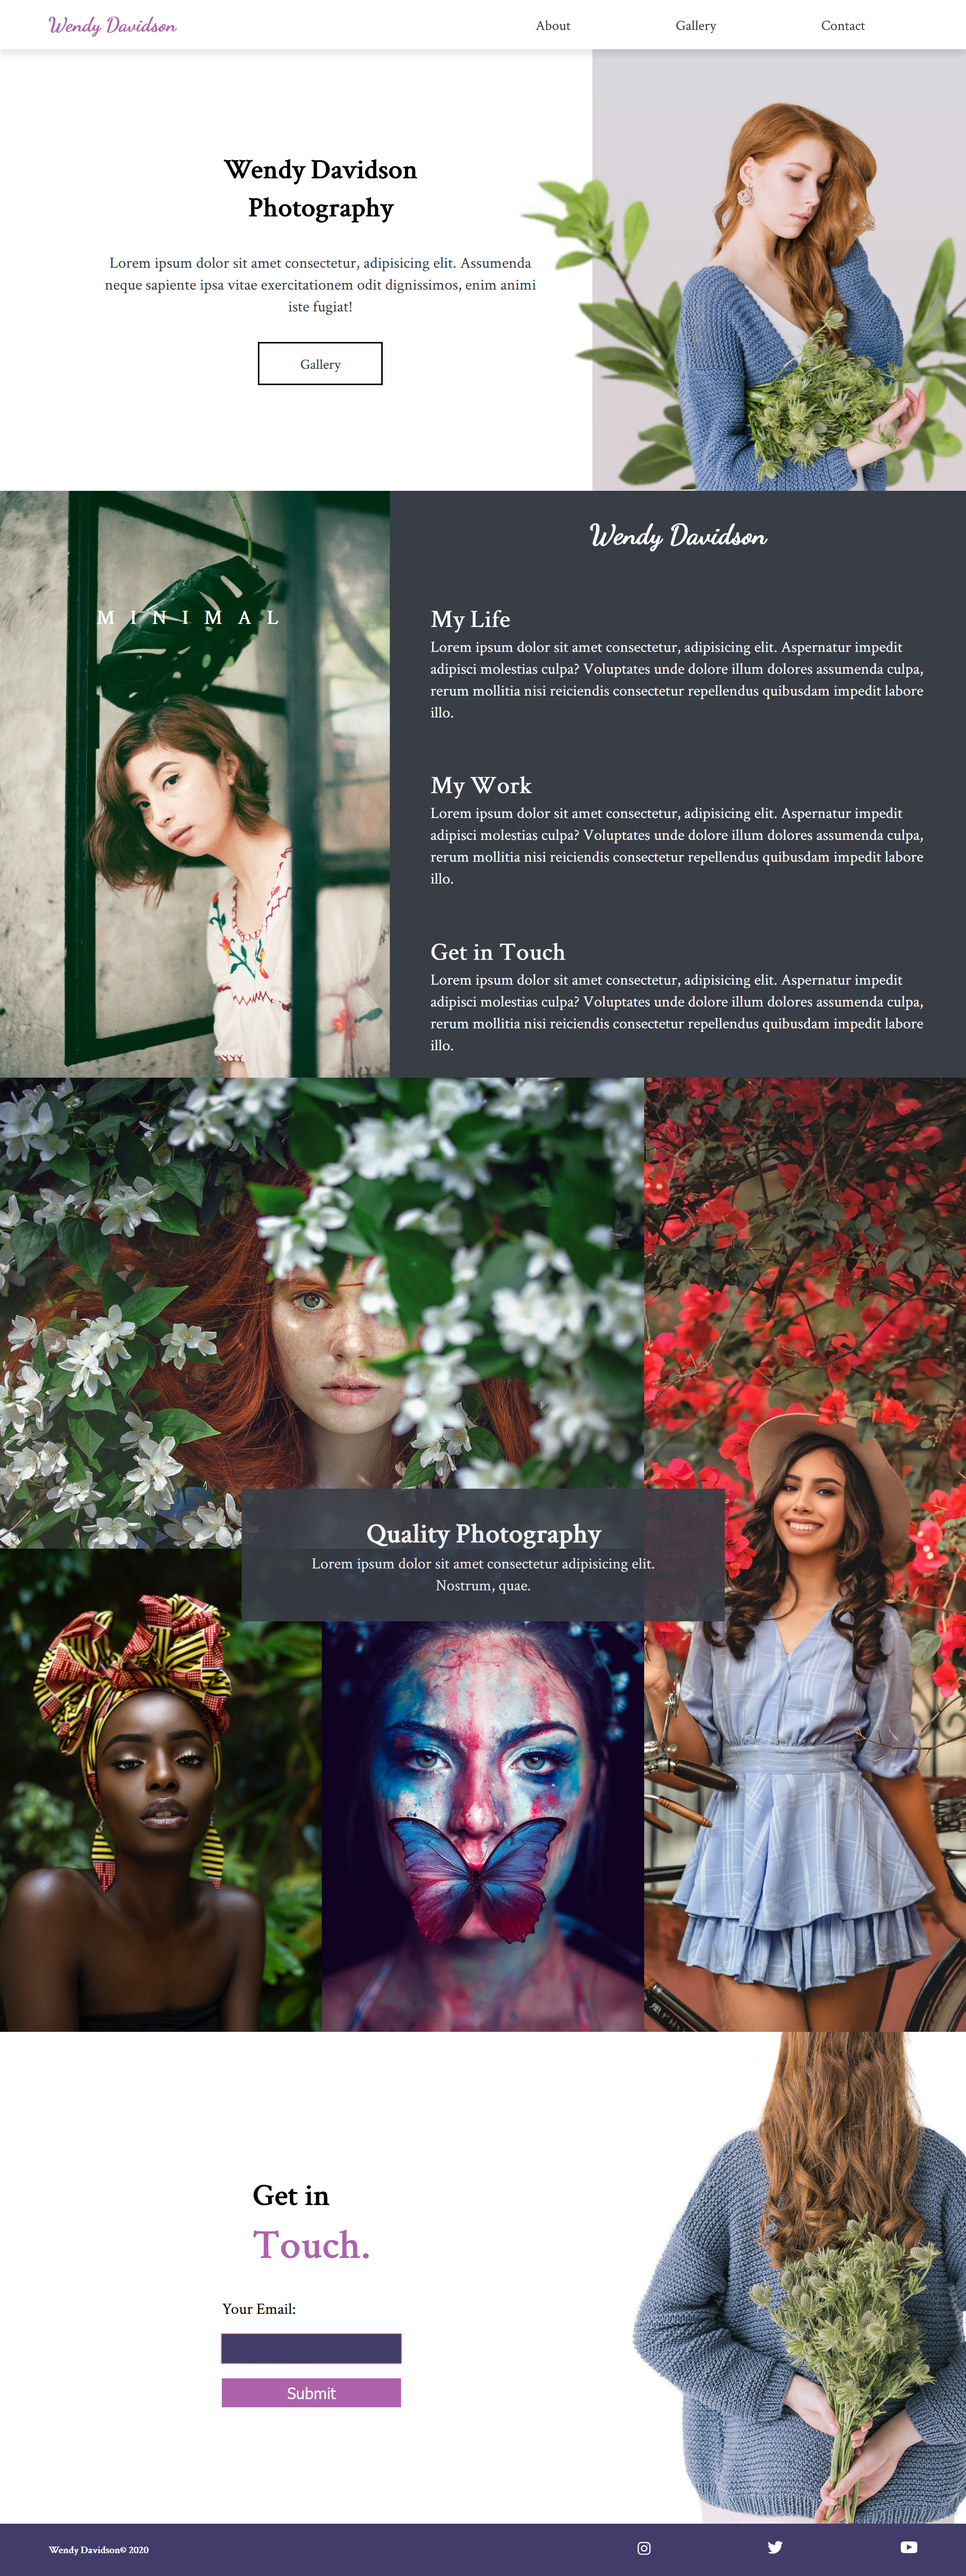
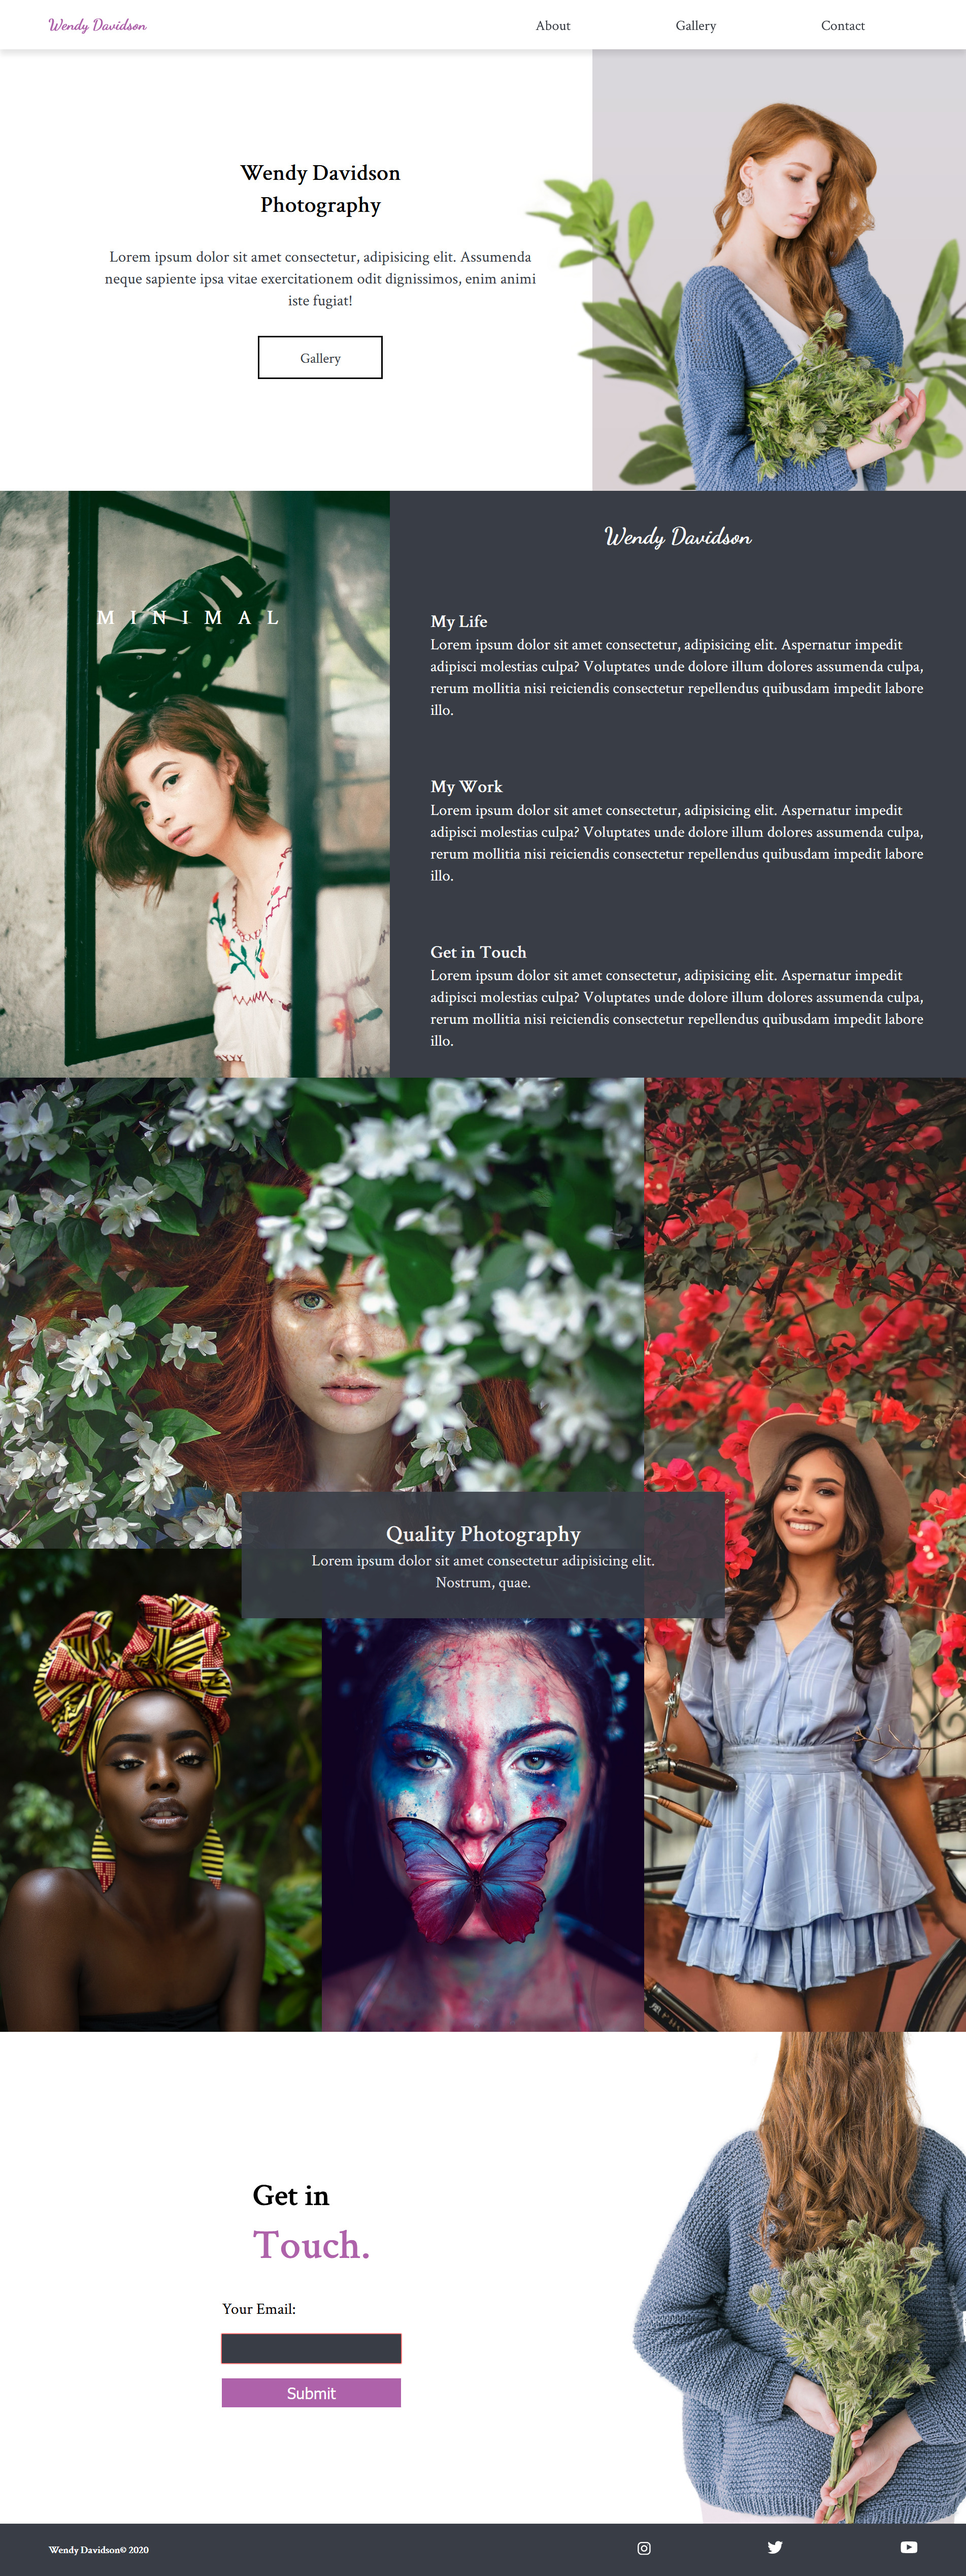
changed website full photo

diff --git a/main.css b/main.css
@@ -292,7 +292,7 @@ nav {
 .form-wrapper input {
     display: block;
     margin: 3rem 0rem;
-    background: var(--background-color);
+    background: var(--gray-text);
     color: white;
     border: none;
     padding: 1rem;
@@ -312,7 +312,7 @@ nav {
 
 /*Footer css styles*/
 footer {
-    background: var(--background-color);
+    background: var(--gray-text);
     color: white;
     display: flex;
     padding: 3rem 5%;
@@ -487,5 +487,15 @@ footer h4 {
         order: 2;
         text-align: center;
         padding: 1rem 0rem;
+    }
+}
+
+@media screen and (min-width:1700px) {
+    html {
+        --header1: 3rem;
+        --header2: 4.5rem;
+        --header3: 3.5rem;
+        --header4: 2.5rem;
+        --big-text: 8rem;
     }
 }
